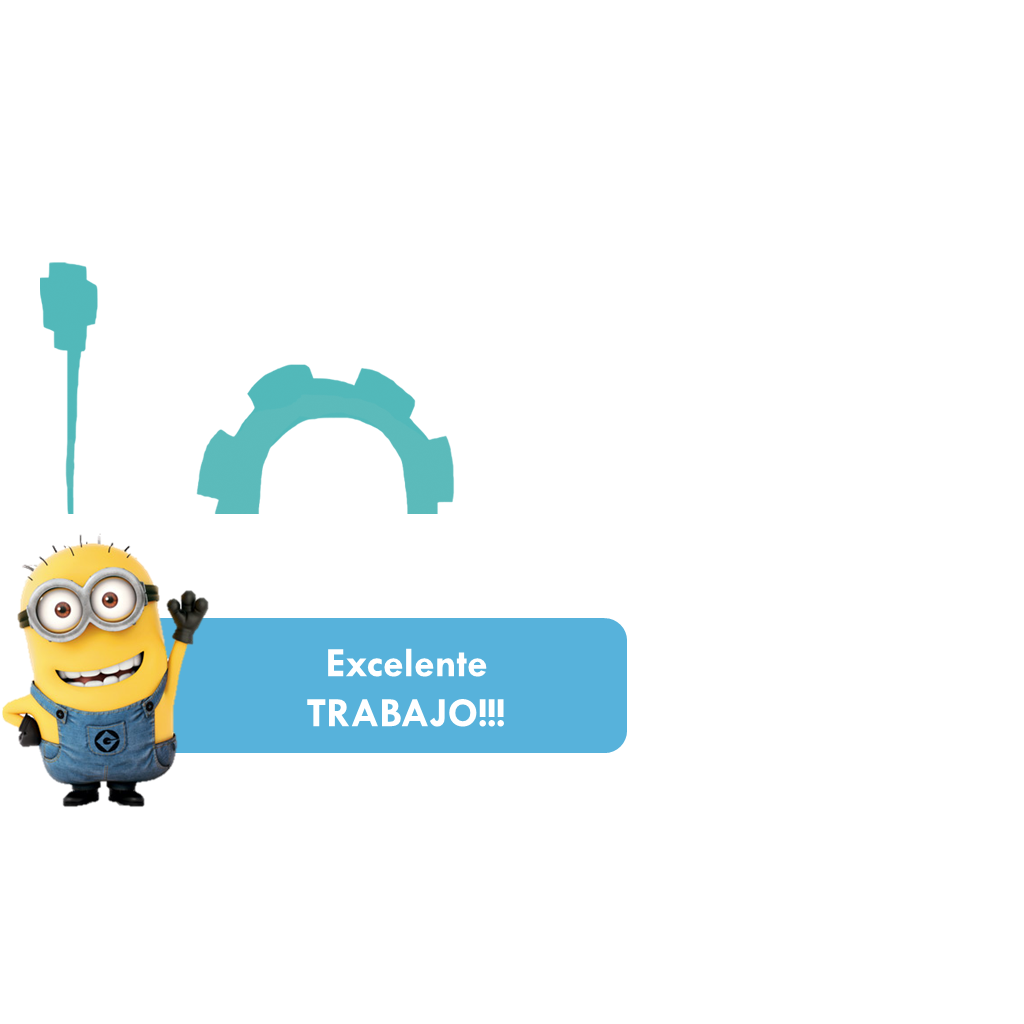
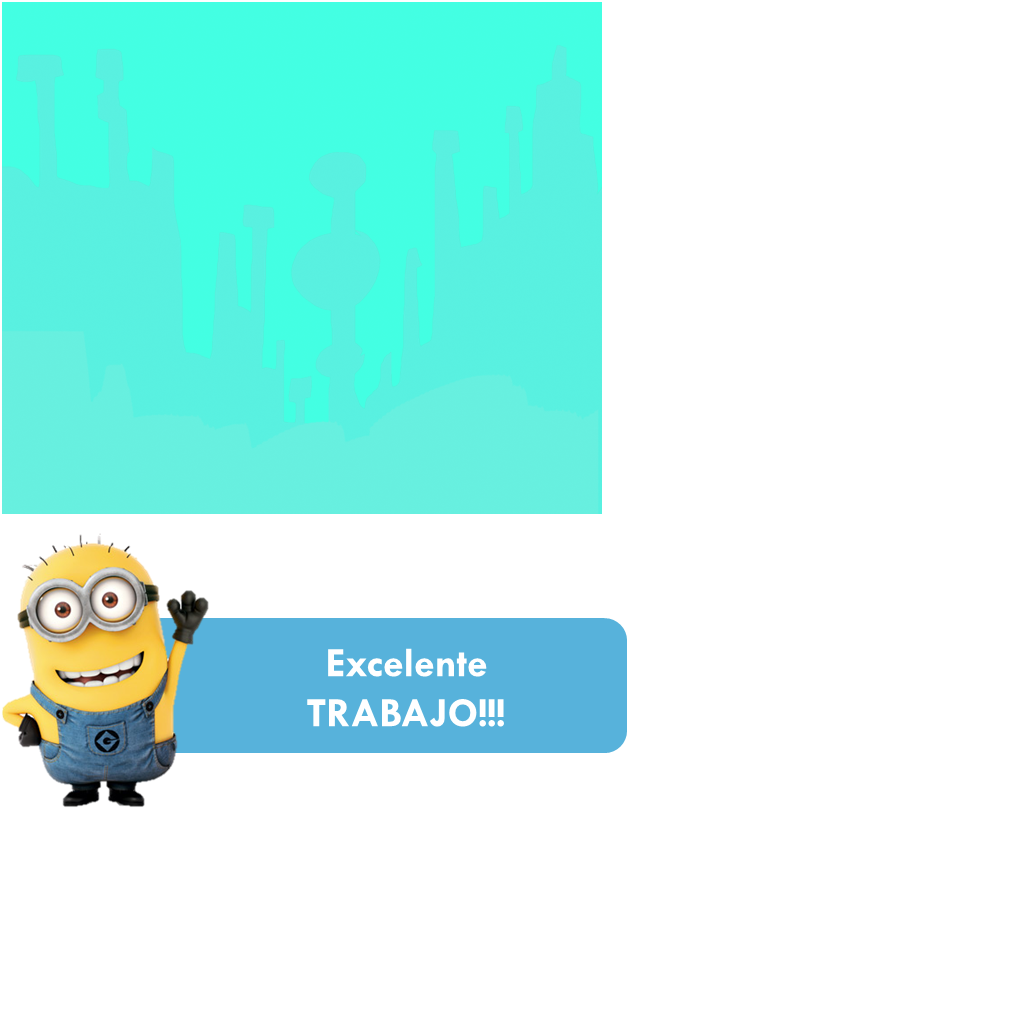
new assets

Changed region(s): [[0.0, 0.0, 0.5938, 0.5]]

diff --git a/core/src/main/java/ceta/game/game/Assets.java b/core/src/main/java/ceta/game/game/Assets.java
@@ -54,11 +54,14 @@ public class Assets implements Disposable, AssetErrorListener {
         // load sounds
 //        assetManager.load("sounds/jump.wav", Sound.class);
 //        assetManager.load("sounds/jump_with_feather.wav", Sound.class);
+        assetManager.load("sounds/yuju.mp3", Sound.class);
+        assetManager.load("sounds/fail.mp3", Sound.class);
         assetManager.load("sounds/pickup_coin.wav", Sound.class);
 //        assetManager.load("sounds/pickup_feather.wav", Sound.class);
         assetManager.load("sounds/live_lost.wav", Sound.class);
         // load music
         assetManager.load("music/keith303_-_brand_new_highscore.mp3", Music.class);
+
         // start loading assets and wait until finished
         assetManager.finishLoading();
         Gdx.app.debug(TAG, "# of assets loaded: " + assetManager.getAssetNames().size);
@@ -146,12 +149,14 @@ public class Assets implements Disposable, AssetErrorListener {
         public final TextureAtlas.AtlasRegion back;
         public final TextureAtlas.AtlasRegion back2;
         public final TextureAtlas.AtlasRegion back3;
+        public final TextureAtlas.AtlasRegion backStart;
 
 
         public AssetBackground (TextureAtlas atlas) {
             back = atlas.findRegion("fondoC");
-            back2 = atlas.findRegion("fondoA");
-            back3 = atlas.findRegion("fondoB");
+            back2 = atlas.findRegion("fondoN");
+            back3 = atlas.findRegion("fondoV");
+            backStart = atlas.findRegion("inicio");
 
         }
     }
@@ -267,15 +272,19 @@ public class Assets implements Disposable, AssetErrorListener {
         public AssetSounds (AssetManager am) {
 //            jump = am.get("sounds/jump.wav", Sound.class);
 //            jumpWithFeather = am.get("sounds/jump_with_feather.wav", Sound.class);
-            pickupCoin = am.get("sounds/pickup_coin.wav", Sound.class);
+            //pickupCoin = am.get("sounds/pickup_coin.wav", Sound.class);
+            pickupCoin = am.get("sounds/yuju.mp3", Sound.class);
 //            pickupFeather = am.get("sounds/pickup_feather.wav", Sound.class);
             liveLost = am.get("sounds/live_lost.wav", Sound.class);
+            //liveLost = am.get("sounds/fail.mp3", Sound.class);
         }
     }
     public class AssetMusic {
         public final Music song01;
+
         public AssetMusic (AssetManager am) {
             song01 = am.get("music/keith303_-_brand_new_highscore.mp3", Music.class);
+
         }
     }
 }
